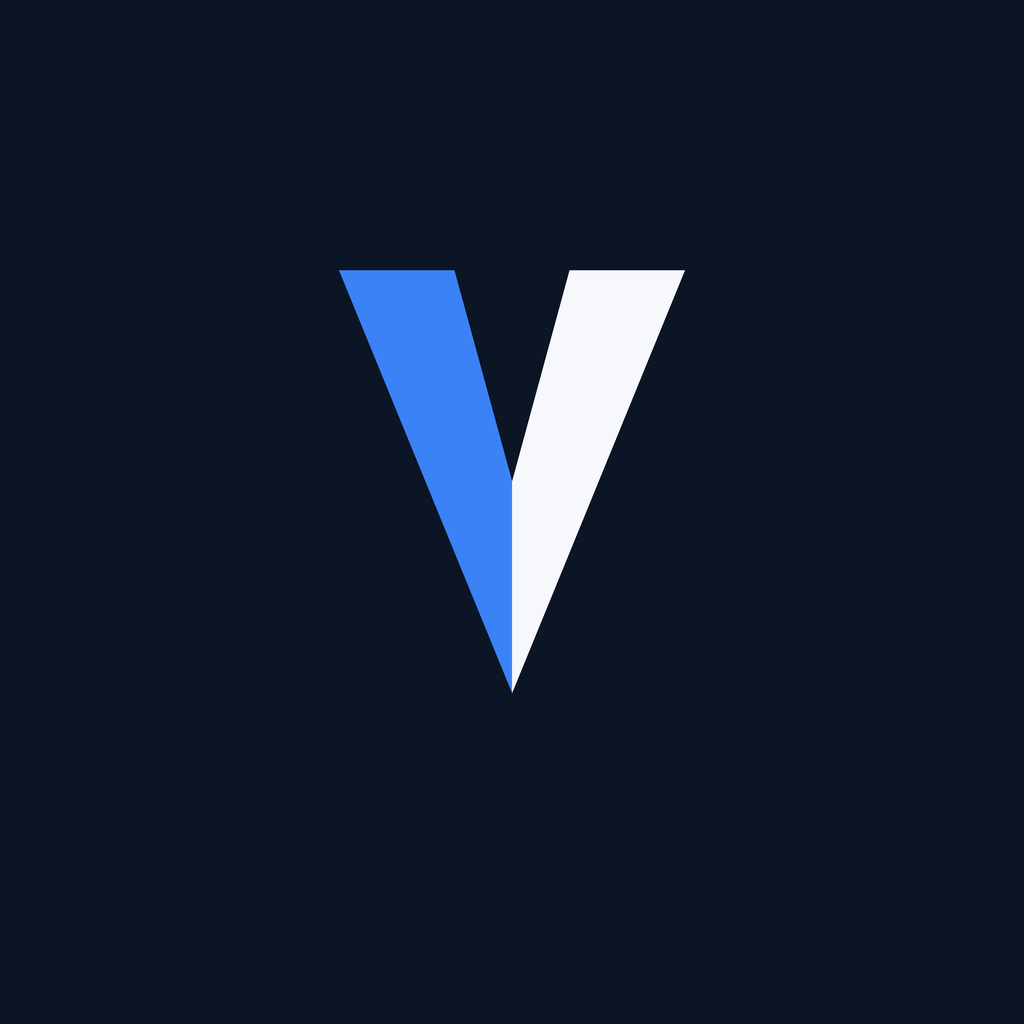
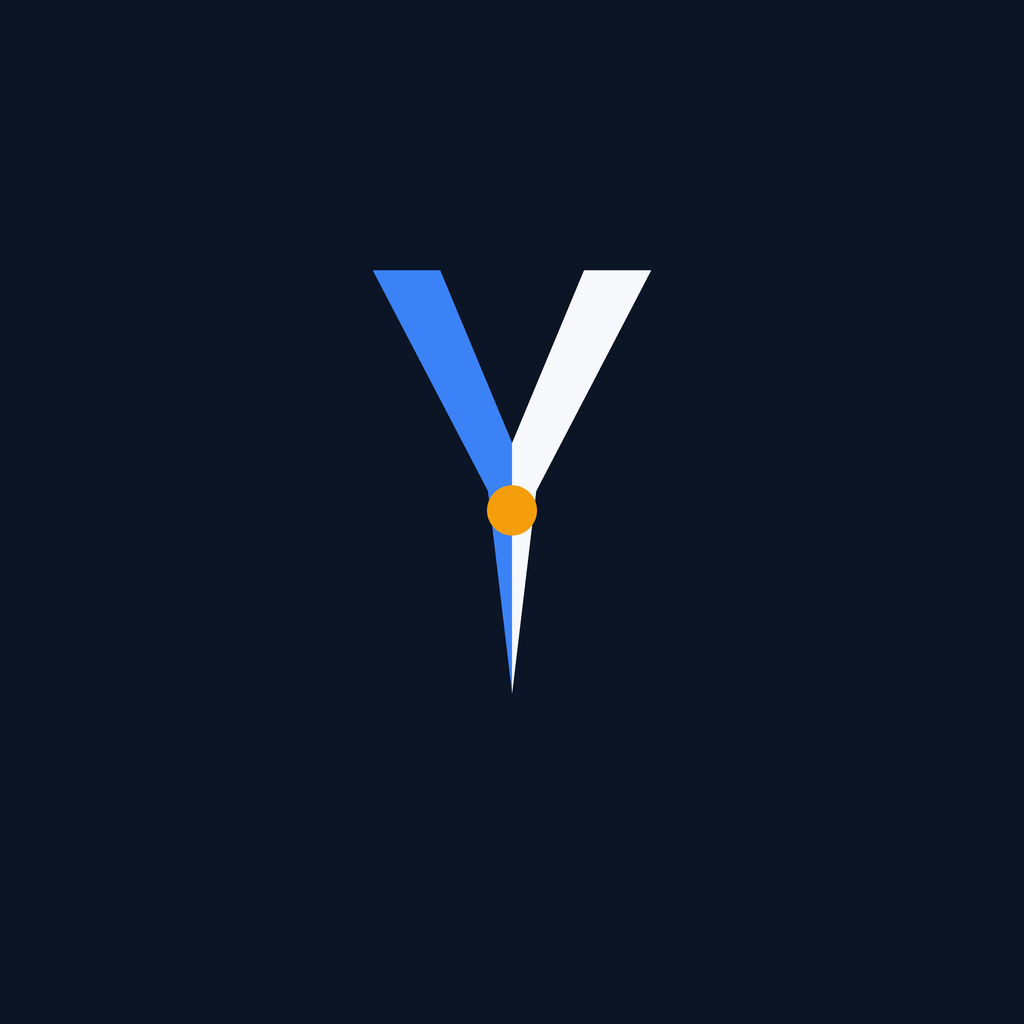
polish: refined mark + slogan, visa-status workflow, plug art, flight card, hub type

Changed region(s): [[0.3125, 0.25, 0.6875, 0.6562], [0.5312, 0.25, 0.5625, 0.3438], [0.4375, 0.25, 0.4688, 0.3438]]

diff --git a/app/src/screens/Guide.tsx b/app/src/screens/Guide.tsx
@@ -1,18 +1,20 @@
 import React, { useCallback, useEffect, useState } from 'react';
 import {
-  ActivityIndicator, Alert, Linking, Pressable, ScrollView, StyleSheet, Text, View,
+  ActivityIndicator, Alert, Linking, Pressable, ScrollView, StyleSheet, Text, TextInput, View,
 } from 'react-native';
-import { getGuide, getProfile, Guide as GuideT } from '../api';
+import { getGuide, getProfile, Guide as GuideT, patchTrip, Trip } from '../api';
+import PlugArt from '../components/PlugArt';
 import { countryName, flagOf } from '../countries';
 import { Card, Chip } from '../components/ui';
 import { C, tint } from '../theme';
 
 const SECTIONS = ['know', 'eat', 'play', 'visit', 'go'];
 
-export default function Guide({ tripId, tripTitle, section, accent, country, place, onBack }: {
-  tripId: string; tripTitle: string; section: string; accent: string;
-  country: string | null; place: string; onBack: () => void;
+export default function Guide({ trip, tripId, tripTitle, section, accent, country, place, onBack, onTripChanged }: {
+  trip: Trip; tripId: string; tripTitle: string; section: string; accent: string;
+  country: string | null; place: string; onBack: () => void; onTripChanged: (t: Trip) => void;
 }) {
+  const [air, setAir] = useState(trip.airline ?? '');
   const [tab, setTab] = useState(section);
   const [g, setG] = useState<GuideT | null>(null);
   const [nat, setNat] = useState<string | null>(null);
@@ -85,6 +87,21 @@ export default function Guide({ tripId, tripTitle, section, accent, country, pla
               <Pressable onPress={() => open('https://www.iatatravelcentre.com/')}>
                 <Text style={[s.link, { color: accent }]}>IATA Travel Centre ›</Text>
               </Pressable>
+              <View style={{ flexDirection: 'row', flexWrap: 'wrap', marginTop: 10 }}>
+                {[['none', 'No visa'], ['evisa', 'eVisa'], ['arrival', 'On arrival'], ['required', 'Visa required']].map(([v, l]) => (
+                  <Pressable key={v}
+                    style={[sx.vChip, trip.visa_status === v && { backgroundColor: accent, borderColor: accent }]}
+                    onPress={async () => {
+                      try { const t = await patchTrip(trip.id, { visa_status: v }); onTripChanged({ ...trip, ...t }); }
+                      catch (e: any) { Alert.alert('Visa', e.message); }
+                    }}>
+                    <Text style={[sx.vChipText, trip.visa_status === v && { color: '#fff' }]}>{l}</Text>
+                  </Pressable>
+                ))}
+              </View>
+              {!!trip.visa_status && (
+                <Text style={[s.sub, { marginTop: 8, fontWeight: '700' }]}>Verified by you — from the official sources above.</Text>
+              )}
               <Pressable onPress={() => open(`https://www.google.com/search?q=visa+requirements+for+${encodeURIComponent(nat ? countryName(nat) : '')}+citizens+${encodeURIComponent(country || place)}+official`)}>
                 <Text style={[s.link, { color: accent }]}>Search official sources ›</Text>
               </Pressable>
@@ -92,6 +109,7 @@ export default function Guide({ tripId, tripTitle, section, accent, country, pla
             <Card>
               <Text style={s.h}>Power & plugs</Text>
               <Text style={s.rowName}>{g.power.plugs || '—'}</Text>
+              <PlugArt plugs={g.power.plugs || ''} accent={accent} />
               {!!g.power.note && <Text style={s.sub}>{g.power.note}</Text>}
             </Card>
             <Card>
@@ -103,6 +121,27 @@ export default function Guide({ tripId, tripTitle, section, accent, country, pla
               {g.customs_flags.map((e, i) => <Text key={i} style={s.bullet}>·  {e}</Text>)}
               <Text style={s.disclaimer}>Cultural guidance, not legal advice — verify locally.</Text>
             </Card>
+            {trip.travel_mode === 'air' && (
+              <Card>
+                <Text style={s.h}>Your flight</Text>
+                <TextInput style={sx.airInput} value={air} onChangeText={setAir}
+                  placeholder="Airline name" placeholderTextColor="#9AA9BB" />
+                {air.trim() !== (trip.airline ?? '') && (
+                  <Pressable onPress={async () => {
+                    try { const t = await patchTrip(trip.id, { airline: air.trim() }); onTripChanged({ ...trip, ...t }); }
+                    catch (e: any) { Alert.alert('Airline', e.message); }
+                  }}>
+                    <Text style={[s.link, { color: accent }]}>Save airline ›</Text>
+                  </Pressable>
+                )}
+                {!!(trip.airline ?? '').trim() && (
+                  <Pressable onPress={() => open(`https://www.google.com/search?q=${encodeURIComponent((trip.airline ?? '') + ' baggage allowance')}`)}>
+                    <Text style={[s.link, { color: accent }]}>{trip.airline} baggage policy ›</Text>
+                  </Pressable>
+                )}
+                <Text style={s.disclaimer}>Allowances vary by fare and route — the official page is the truth; VoyageOS never guesses limits. Set your own bag target in Pack.</Text>
+              </Card>
+            )}
           </>
         )}
         {tab === 'eat' && <Card><Text style={s.h}>Worth the trip alone</Text><Rows items={g.eat} /></Card>}
@@ -143,4 +182,10 @@ const s = StyleSheet.create({
   bullet: { color: C.text, marginBottom: 7, lineHeight: 20 },
   link: { fontWeight: '800', marginTop: 10 },
   disclaimer: { color: '#9AA9BB', fontSize: 11, marginTop: 10, textAlign: 'center', lineHeight: 16 },
+});
+
+const sx = StyleSheet.create({
+  vChip: { borderWidth: 1.5, borderColor: C.border, backgroundColor: '#fff', paddingHorizontal: 12, paddingVertical: 8, borderRadius: 999, marginRight: 6, marginBottom: 6 },
+  vChipText: { color: C.text, fontWeight: '800', fontSize: 12 },
+  airInput: { backgroundColor: '#F1F4F9', borderRadius: 12, paddingHorizontal: 14, paddingVertical: 11, fontSize: 15, color: C.text },
 });

diff --git a/app/src/components/PlugArt.tsx b/app/src/components/PlugArt.tsx
@@ -1,0 +1,48 @@
+import React from 'react';
+import { Text, View } from 'react-native';
+import Svg, { Circle, Path, Rect } from 'react-native-svg';
+import { C, tint } from '../theme';
+
+/** Socket-face clip art per plug type letter — same minimal language as the landmarks. */
+function Face({ letter, accent }: { letter: string; accent: string }) {
+  const H = (children: React.ReactNode) => (
+    <Svg width={56} height={56} viewBox="0 0 100 100">
+      <Rect x={8} y={8} width={84} height={84} rx={20} fill={tint(accent, 0.07)}
+        stroke={accent} strokeWidth={5} />
+      {children}
+    </Svg>
+  );
+  const F = accent;
+  switch (letter) {
+    case 'A': return H(<><Rect x={34} y={32} width={8} height={30} rx={3} fill={F} /><Rect x={58} y={32} width={8} height={30} rx={3} fill={F} /></>);
+    case 'B': return H(<><Rect x={32} y={28} width={8} height={26} rx={3} fill={F} /><Rect x={60} y={28} width={8} height={26} rx={3} fill={F} /><Circle cx={50} cy={68} r={7} fill={F} /></>);
+    case 'C': return H(<><Circle cx={32} cy={50} r={7} fill={F} /><Circle cx={68} cy={50} r={7} fill={F} /></>);
+    case 'E': return H(<><Circle cx={32} cy={54} r={7} fill={F} /><Circle cx={68} cy={54} r={7} fill={F} /><Circle cx={50} cy={28} r={5} fill={F} /></>);
+    case 'F': return H(<><Circle cx={32} cy={50} r={7} fill={F} /><Circle cx={68} cy={50} r={7} fill={F} /><Rect x={45} y={11} width={10} height={9} fill={F} /><Rect x={45} y={80} width={10} height={9} fill={F} /></>);
+    case 'G': return H(<><Rect x={44} y={20} width={12} height={22} rx={3} fill={F} /><Rect x={22} y={58} width={20} height={12} rx={3} fill={F} /><Rect x={58} y={58} width={20} height={12} rx={3} fill={F} /></>);
+    case 'I': return H(<><Path d="M26 30 l16 9 -5 9 -16 -9 Z" fill={F} /><Path d="M74 30 l-16 9 5 9 16 -9 Z" fill={F} /><Rect x={46} y={58} width={8} height={20} rx={3} fill={F} /></>);
+    case 'D': return H(<><Circle cx={50} cy={28} r={8} fill={F} /><Circle cx={32} cy={62} r={7} fill={F} /><Circle cx={68} cy={62} r={7} fill={F} /></>);
+    case 'M': return H(<><Circle cx={50} cy={26} r={9} fill={F} /><Circle cx={30} cy={64} r={8} fill={F} /><Circle cx={70} cy={64} r={8} fill={F} /></>);
+    case 'H': return H(<><Path d="M28 28 l14 8 -4 8 -14 -8 Z" fill={F} /><Path d="M72 28 l-14 8 4 8 14 -8 Z" fill={F} /><Circle cx={50} cy={64} r={6} fill={F} /></>);
+    case 'J': return H(<><Circle cx={32} cy={44} r={6} fill={F} /><Circle cx={68} cy={44} r={6} fill={F} /><Circle cx={50} cy={66} r={6} fill={F} /></>);
+    case 'K': return H(<><Circle cx={32} cy={46} r={6} fill={F} /><Circle cx={68} cy={46} r={6} fill={F} /><Path d="M43 62 h14 v6 a7 7 0 0 1 -14 0 Z" fill={F} /></>);
+    case 'L': return H(<><Circle cx={28} cy={50} r={6} fill={F} /><Circle cx={50} cy={50} r={6} fill={F} /><Circle cx={72} cy={50} r={6} fill={F} /></>);
+    case 'N': return H(<><Circle cx={34} cy={60} r={6} fill={F} /><Circle cx={66} cy={60} r={6} fill={F} /><Circle cx={50} cy={34} r={6} fill={F} /></>);
+    default: return H(<><Circle cx={32} cy={50} r={7} fill={F} /><Circle cx={68} cy={50} r={7} fill={F} /></>);
+  }
+}
+
+export default function PlugArt({ plugs, accent }: { plugs: string; accent: string }) {
+  const letters = Array.from(new Set(plugs.toUpperCase().match(/\b[A-N]\b/g) ?? [])).slice(0, 3);
+  if (!letters.length) return null;
+  return (
+    <View style={{ flexDirection: 'row', marginTop: 10 }}>
+      {letters.map(l => (
+        <View key={l} style={{ alignItems: 'center', marginRight: 14 }}>
+          <Face letter={l} accent={accent} />
+          <Text style={{ color: C.sub, fontWeight: '800', fontSize: 12, marginTop: 3 }}>Type {l}</Text>
+        </View>
+      ))}
+    </View>
+  );
+}

diff --git a/app/src/components/Wordmark.tsx b/app/src/components/Wordmark.tsx
@@ -1,6 +1,6 @@
 import React, { useEffect, useRef } from 'react';
 import { Animated, Easing, Pressable, Text, View } from 'react-native';
-import Svg, { Polygon } from 'react-native-svg';
+import Svg, { Circle, Polygon } from 'react-native-svg';
 import { C } from '../theme';
 
 /** Voyage·os — the V is a compass needle that settles on north at launch. */
@@ -22,13 +22,14 @@ export default function Wordmark({ size = 30, onPress }: { size?: number; onPres
     <Pressable onPress={onPress} style={{ flexDirection: 'row', alignItems: 'flex-end' }}>
       <Animated.View style={{ transform: [{ rotate }], marginRight: -3, marginBottom: 1 }}>
         <Svg width={s} height={s} viewBox="0 0 100 100">
-          {/* the V, drawn as a needle: north arm accented, south arm navy */}
-          <Polygon points="50,96 14,8 38,8 50,52" fill={C.blue} />
-          <Polygon points="50,96 86,8 62,8 50,52" fill={C.text} />
+          {/* tapered needle-V: pivot dot, slim arms, sharp south tip */}
+          <Polygon points="50,96 45,54 21,8 35,8 50,44" fill={C.blue} />
+          <Polygon points="50,96 55,54 79,8 65,8 50,44" fill={C.text} />
+          <Circle cx="50" cy="58" r="5.5" fill="#F59E0B" />
         </Svg>
       </Animated.View>
-      <Text style={{ fontSize: size, fontWeight: '900', color: C.text, letterSpacing: -0.5 }}>oyage</Text>
-      <Text style={{ fontSize: size * 0.55, fontWeight: '800', color: C.blue, marginBottom: 2 }}>os</Text>
+      <Text style={{ fontSize: size, fontWeight: '800', color: C.text, letterSpacing: -1.2 }}>oyage</Text>
+      <Text style={{ fontSize: size * 0.5, fontWeight: '900', color: C.blue, marginBottom: 3, marginLeft: 2, letterSpacing: 0.5 }}>os</Text>
     </Pressable>
   );
 }

diff --git a/app/src/api.ts b/app/src/api.ts
@@ -8,6 +8,7 @@ export function setAuthFailHandler(fn: () => void) { onAuthFail = fn; }
 
 export type Trip = {
   place?: string | null; country_code?: string | null; travel_mode?: string | null;
+  airline?: string | null; visa_status?: string | null;
   id: string; title: string; start_date: string; end_date: string;
   trip_type?: string | null; status: string;
 };
@@ -162,7 +163,7 @@ export const listNotes = (tripId: string): Promise<Note[]> => req(`/v1/trips/${t
 export const addNote = (tripId: string, body: string, photos: { b64: string; mime: string }[] = []): Promise<Note> =>
   req(`/v1/trips/${tripId}/notes`, { method: 'POST', body: JSON.stringify({ body, photos }) });
 
-export const patchTrip = (id: string, b: { title?: string; start_date?: string; end_date?: string }): Promise<Trip> =>
+export const patchTrip = (id: string, b: { title?: string; start_date?: string; end_date?: string; airline?: string; visa_status?: string }): Promise<Trip> =>
   req(`/v1/trips/${id}`, { method: 'PATCH', body: JSON.stringify(b) });
 export const deleteTrip = (id: string): Promise<void> =>
   req(`/v1/trips/${id}`, { method: 'DELETE' });

diff --git a/app/src/screens/Wizard.tsx b/app/src/screens/Wizard.tsx
@@ -30,6 +30,7 @@ export default function Wizard({ onDone, onCancel }: {
   const [coords, setCoords] = useState<{ lat: number; lng: number } | null>(null);
   const [mode, setMode] = useState('air');
   const [stay, setStay] = useState('');
+  const [airline, setAirline] = useState('');
   const [hits, setHits] = useState<PlaceHit[]>([]);
   const [chosen, setChosen] = useState(false);
   const [start, setStart] = useState(defStart);
@@ -124,6 +125,10 @@ export default function Wizard({ onDone, onCancel }: {
               <Chip key={v} label={l} selected={mode === v} onPress={() => setMode(v)} />
             ))}
           </View>
+          {mode === 'air' && (
+            <Field label="AIRLINE (OPTIONAL)" value={airline} onChange={setAirline}
+              placeholder="e.g. Jazeera, Qatar Airways" />
+          )}
           <Field label="WHERE ARE YOU STAYING? (OPTIONAL)" value={stay} onChange={setStay}
             placeholder="Hotel or area — tailors your guide" />
           {!chosen && place.trim().length >= 2 && (

diff --git a/app/App.tsx b/app/App.tsx
@@ -111,7 +111,8 @@ export default function App() {
           onDebrief={() => setRoute({ name: 'debrief', trip: route.trip })} />
       )}
       {route.name === 'guide' && (
-        <Guide tripId={route.trip.id} tripTitle={route.trip.title} section={route.section}
+        <Guide trip={route.trip} tripId={route.trip.id} tripTitle={route.trip.title} section={route.section}
+          onTripChanged={(t) => setRoute({ name: 'guide', trip: t, section: route.section })}
           accent={accentForTrip(route.trip.country_code, route.trip.title)}
           place={route.trip.place ?? route.trip.title.replace(/ trip$/i, '')}
           country={route.trip.country_code ?? null}

diff --git a/app/src/screens/Login.tsx b/app/src/screens/Login.tsx
@@ -34,7 +34,7 @@ export default function Login({ onDone }: { onDone: () => void }) {
       <ScrollView style={{ flex: 1, backgroundColor: C.bg }} contentContainerStyle={s.wrap}
         keyboardShouldPersistTaps="handled">
         <Text style={s.brand}>VoyageOS</Text>
-        <Text style={s.tag}>It knows your trip better than you do.</Text>
+        <Text style={s.tag}>Ready before you ask.</Text>
         <Card>
           <Text style={s.h2}>{mode === 'signin' ? 'Sign in' : 'Create your account'}</Text>
           <Field label="EMAIL" value={email} onChange={setEmail} placeholder="you@example.com" />

diff --git a/app/src/screens/TripHub.tsx b/app/src/screens/TripHub.tsx
@@ -142,8 +142,8 @@ export default function TripHub({ trip, onBack, onPack, onGuide, onJournal, onSO
 }
 
 const s = StyleSheet.create({
-  title: { fontSize: 24, fontWeight: '900', color: C.text, letterSpacing: -0.5 },
-  dates: { color: C.sub, marginTop: 3 },
+  title: { fontSize: 31, fontWeight: '900', color: C.text, letterSpacing: -0.8 },
+  dates: { color: C.sub, marginTop: 4, fontSize: 15 },
   wx: { color: C.text, fontWeight: '700', fontSize: 13 },
   grid: { flexDirection: 'row', flexWrap: 'wrap', justifyContent: 'space-between' },
   tile: {

diff --git a/api/trips/models.py b/api/trips/models.py
@@ -9,6 +9,7 @@ class TripCreate(BaseModel):
     end_date: date
     trip_type: str | None = None
     travel_mode: str | None = Field(default=None, max_length=12)  # air|train|ship|car
+    airline: str | None = Field(default=None, max_length=60)
 
     @model_validator(mode="after")
     def dates_ordered(self):
@@ -36,3 +37,5 @@ class TripPatch(BaseModel):
     start_date: date | None = None
     end_date: date | None = None
     travel_mode: str | None = Field(default=None, max_length=12)
+    airline: str | None = Field(default=None, max_length=60)
+    visa_status: str | None = Field(default=None, max_length=16)  # none|evisa|arrival|required

diff --git a/api/packing/context.py b/api/packing/context.py
@@ -28,6 +28,7 @@ def build_context(db, trip: dict, user_id: str) -> dict:
     ctx = {
         "trip": {
             "travel_mode": trip.get("travel_mode"),
+            "airline": trip.get("airline"),
             "title": trip["title"], "trip_type": trip.get("trip_type"),
             "start_date": trip["start_date"], "end_date": trip["end_date"],
             "duration_days": duration, "month": start.strftime("%B"),
